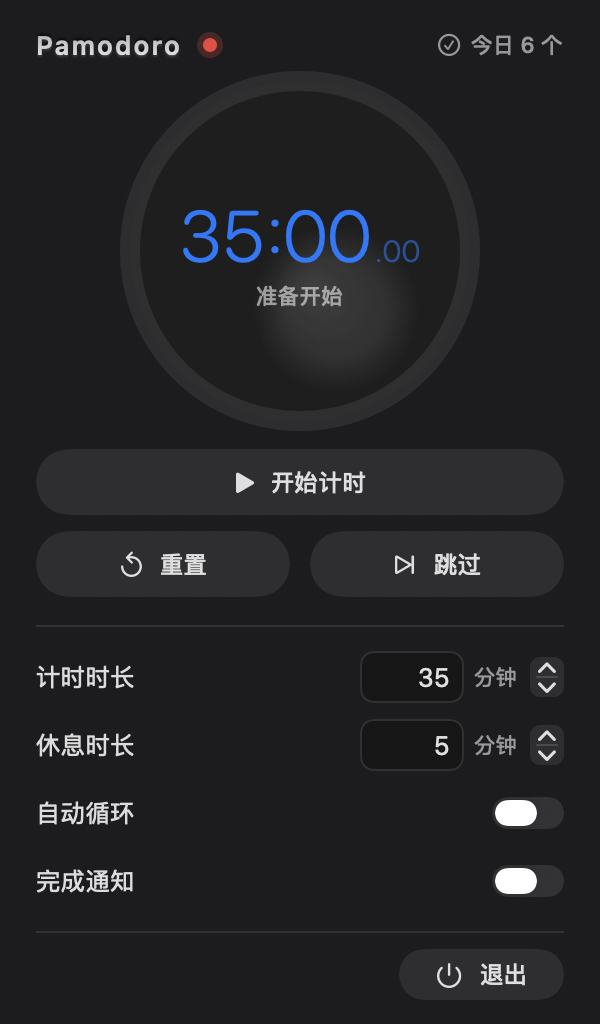
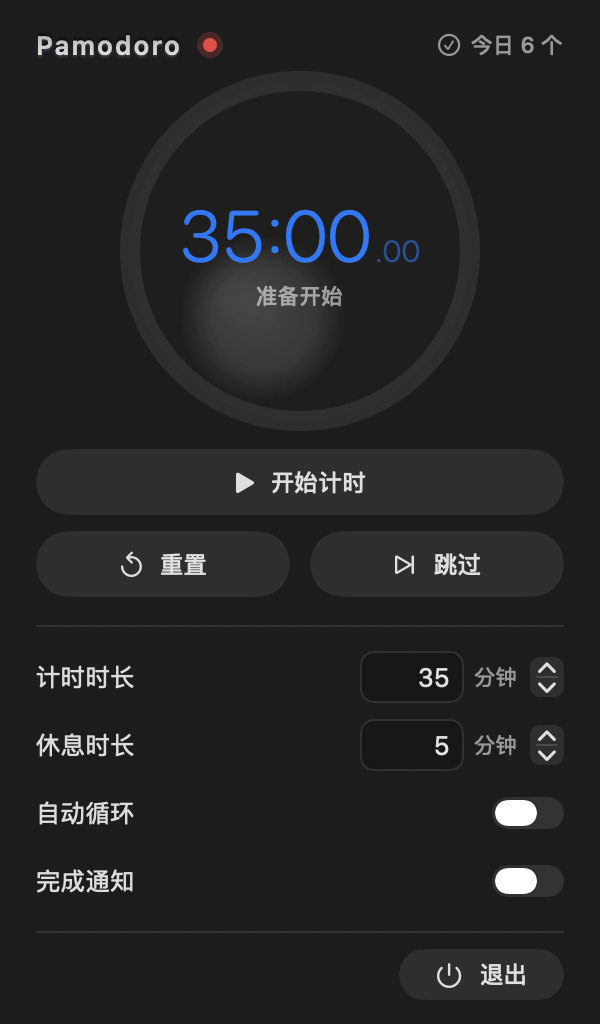
状态栏换用自带的麦金塔与叉腰人形图标；液体效果增强

Changed region(s): [[0.33, 0.25, 0.48, 0.375], [0.54, 0.25, 0.6, 0.3125]]

diff --git a/Sources/DialLiquid.swift b/Sources/DialLiquid.swift
@@ -39,8 +39,8 @@ struct DialLiquid: View {
                 // 本体：低对比的银灰，径向在边缘之前就淡出（不出现硬边）
                 let core = dark ? Color(white: 0.92) : Color(red: 0.52, green: 0.58, blue: 0.68)
                 let body = Gradient(stops: [
-                    .init(color: core.opacity(dark ? 0.13 : 0.16), location: 0.00),
-                    .init(color: core.opacity(dark ? 0.10 : 0.13), location: 0.55),
+                    .init(color: core.opacity(dark ? 0.18 : 0.24), location: 0.00),
+                    .init(color: core.opacity(dark ? 0.14 : 0.19), location: 0.55),
                     .init(color: core.opacity(0.0), location: 0.92),
                 ])
                 context.fill(path, with: .radialGradient(body,
@@ -68,7 +68,7 @@ struct DialLiquid: View {
                                                      endRadius: hlRadius))
             }
             // 整体再糊一层：边缘彻底化进背景，只在明暗上留下流动的痕迹
-            .blur(radius: 13)
+            .blur(radius: 10)
         }
         .clipShape(Circle())
         .allowsHitTesting(false)

diff --git a/Sources/main.swift b/Sources/main.swift
@@ -42,7 +42,7 @@ final class AppDelegate: NSObject, NSApplicationDelegate, NSPopoverDelegate {
         let font = NSFont.monospacedDigitSystemFont(ofSize: 12.5, weight: .regular)
         let textWidth = ceil(NSAttributedString(string: "888:88", attributes: [.font: font]).size().width)
         let timerIconWidth = ceil(StatusIcon.mac.size.width)
-        let coffeeIconWidth = ceil(StatusIcon.coffee.size.width)
+        let coffeeIconWidth = ceil(StatusIcon.person.size.width)
         // 两种状态都是「图标 + 时间」，取更宽的一档
         return max(timerIconWidth, coffeeIconWidth) + textWidth + 20
     }
@@ -59,7 +59,7 @@ final class AppDelegate: NSObject, NSApplicationDelegate, NSPopoverDelegate {
             let font = NSFont.monospacedDigitSystemFont(ofSize: 12.5, weight: .regular)
             button.attributedTitle = NSAttributedString(string: " " + timeText, attributes: [.font: font])
         }
-        let icon = isRest ? StatusIcon.coffee : StatusIcon.mac
+        let icon = isRest ? StatusIcon.person : StatusIcon.mac
         if button.image !== icon {
             button.image = icon
         }

diff --git a/Sources/StatusIcon.swift b/Sources/StatusIcon.swift
@@ -1,7 +1,19 @@
 import AppKit
 
-/// 菜单栏图标：8-bit 像素风格的计时器 / 咖啡杯（模板图，跟随菜单栏深浅色与高亮反色）
+/// 菜单栏图标：使用打包在 Resources 里的像素图（模板渲染，跟随深浅色与高亮反色）。
+/// 找不到资源时退回代码里画的 PixelIcon。
 enum StatusIcon {
-    static var mac: NSImage { PixelIcon.mac }
-    static var coffee: NSImage { PixelIcon.coffee }
+
+    /// 计时状态：8-bit 麦金塔
+    static let mac: NSImage = bundled("menubar-mac") ?? PixelIcon.mac
+
+    /// 休息状态：双手叉腰的人形
+    static let person: NSImage = bundled("menubar-person") ?? PixelIcon.coffee
+
+    private static func bundled(_ name: String) -> NSImage? {
+        guard let url = Bundle.main.url(forResource: name, withExtension: "png"),
+              let image = NSImage(contentsOf: url) else { return nil }
+        image.isTemplate = true
+        return image
+    }
 }

diff --git a/README.md b/README.md
@@ -75,7 +75,7 @@ open /Applications/Pomodoro.app
 
 ## 功能
 
-- **菜单栏常驻倒计时**：计时状态是 8-bit 像素麦金塔 + `24:59`，休息状态换成冒热气的像素咖啡杯 + `4:10`
+- **菜单栏常驻倒计时**：计时状态是像素麦金塔（带笑脸）+ `24:59`，休息状态换成双手叉腰的人形 + `4:10`
 - **毫秒显示**：面板里秒后面跟两位毫秒（`29:13.99`，50fps 刷新）；状态栏仍只显示到秒
 - **点击开面板**：环形进度、大号等宽时间、胶囊按钮；右键图标可直接退出
 - **点击表盘**：直接点圆形表盘即可开始 / 暂停 / 继续（悬停时光标变手型、状态文字提示当前动作）
@@ -116,8 +116,9 @@ rm -rf /Applications/Pomodoro.app
 
 - **状态栏**：`NSStatusItem` + 固定宽度（按两种像素图标里更宽的一档算），倒计时位数在
   `5:00` / `25:00` / `180:00` 之间变化都不会让 item 伸缩——否则锚定其上的面板会跟着左右跳。
-- **像素图标**：`PixelIcon` 用 16×16 字符画渲染成模板位图，每格固定 2×2 设备像素，
-  2x 屏上边缘是硬的；计时为像素麦金塔、休息为冒热气的像素咖啡杯，深浅色自动反色。
+- **状态栏图标**：`Resources/menubar-mac.png` 与 `menubar-person.png` 是两枚 15pt 高的模板图，
+  由灰度转 alpha 生成（黑色/白色自动适配菜单栏深浅色与高亮反色）；
+  `PixelIcon` 里保留了纯代码绘制的像素版作为资源缺失时的兜底。
 - **面板**：`NSPopover` + SwiftUI。`NSPopover` 自带的菜单栏定位会把面板顶出屏幕上沿
   （顶部被裁），因此另做了屏幕几何校正，把面板夹在图标正下方与可见区域内。
 - **统一配色**：表盘与主按钮在任何状态都是「浅色底 + 强调色文字 + 细描边」，
@@ -153,6 +154,8 @@ rm -rf /Applications/Pomodoro.app
 ├── Resources/
 │   ├── AppIcon.icns          # App 图标
 │   ├── AppIcon-1024.png      # 图标预览
+│   ├── menubar-mac.png       # 计时态状态栏图标（像素麦金塔）
+│   ├── menubar-person.png    # 休息态状态栏图标（叉腰人形）
 │   ├── pomo-chime.mp3        # 结束提示音（缺失时退回合成蜂鸣）
 │   └── click.wav             # 0.11s 短音，所有按钮点击共用
 ├── Preview/                  # README 用的界面截图
